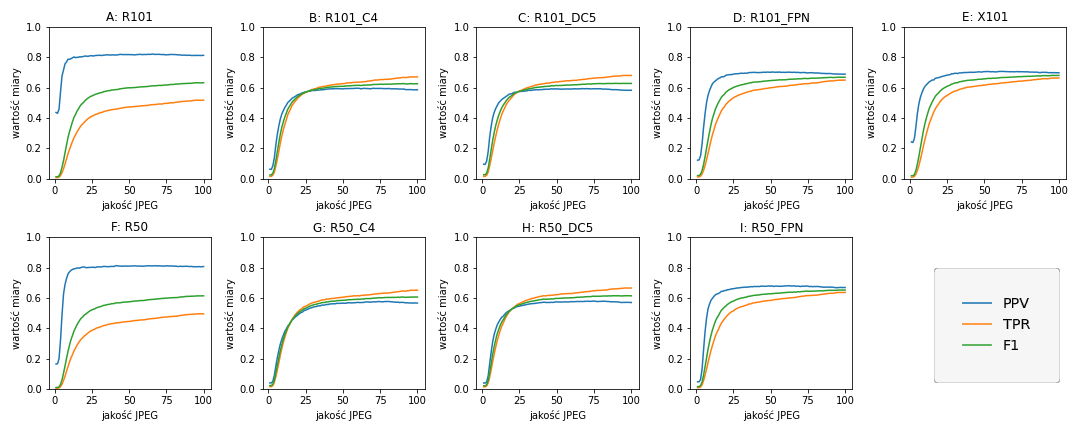
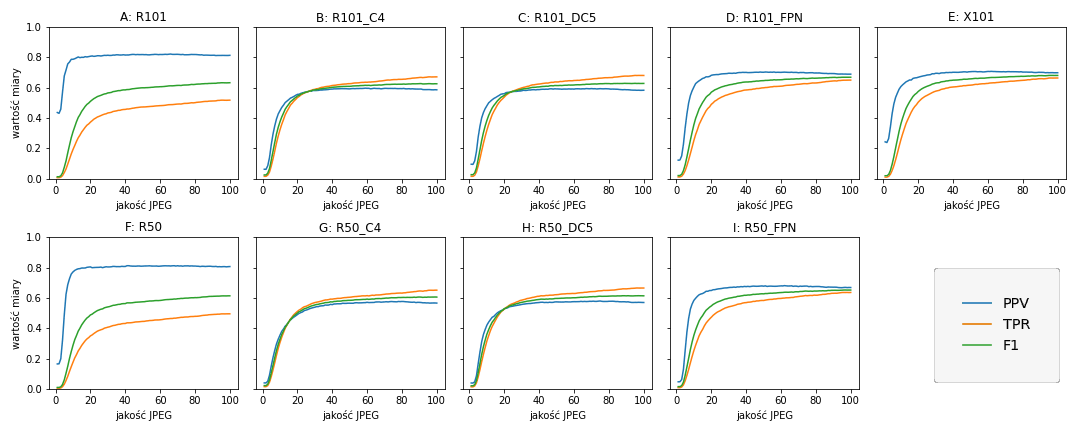
Detekcja_obiektow/09-metrics-APx_Q -- AP plots by Q, i18n and slight look change.

diff --git a/evaldets/postprocess.py b/evaldets/postprocess.py
@@ -181,7 +181,7 @@ class Summary:
         xlim=None,
         **kwargs,
     ):
-        """Plot"""
+        """Plot counts of TP, FP and EX againts Tc."""
         if axes is not None:
             axes = iter(axes.ravel())
 
@@ -281,12 +281,21 @@ class GrandSummary:
             )
             subplot_ord += 1
 
-    def plot_ap_summaries(self, axes=None, by_size=False, order=None, **kwargs):
+    def plot_ap_summaries(
+        self, axes=None, by_size=False, order=None, i18n=None, **kwargs
+    ):
         if axes is not None:
             axes = iter(axes.ravel())
+
+        if by_size and "color" not in kwargs:
+            kwargs["color"] = ["#777777", "#444444", "#000000"]
+
+        if not by_size and "color" not in kwargs:
+            kwargs["color"] = ["#000000", "#005500", "#00aa00"]
+
         subplot_ord = ord("A")
         models = {df["model"][0]: df for df in self.ap_summaries()}
-        columns = ["APl", "APm", "APs"] if by_size else ["AP50", "AP75", "AP"]
+        columns = ["APl", "APm", "APs"] if by_size else ["AP", "AP75", "AP50"]
         for model in order if order else models.keys():
             df = models[model]
             if axes is not None:
@@ -296,13 +305,20 @@ class GrandSummary:
                 x="quality",
                 y=columns,
                 ylim=(0, 1),
-                ylabel="value",
+                ylabel=T_(i18n, "value"),
+                xlabel=T_(i18n, "quality"),
                 title=f"{chr(subplot_ord)}: {model}",
                 **kwargs,
             )
             subplot_ord += 1
+            if by_size:
+                # https://stackoverflow.com/questions/62470743/change-line-width-of-specific-line-in-line-plot-pandas-matplotlib
+                w = 3
+                for line in ax.get_lines():
+                    line.set_linewidth(w)
+                    w -= 1
 
-    def plot_ap_derivatives(self, axes=None, order=None, **kwargs):
+    def plot_ap_derivatives(self, axes=None, order=None, i18n=None, **kwargs):
         if axes is not None:
             axes = iter(axes.ravel())
         subplot_ord = ord("A")
@@ -313,8 +329,8 @@ class GrandSummary:
                 ax = next(axes)
                 kwargs["ax"] = ax
             df.AP.rename("d(AP)/dQ").diff().rolling(5).mean().plot(
-                xlabel="quality",
-                ylabel="d(AP)/dQ ",
+                xlabel=T_(i18n, "quality"),
+                ylabel=T_(i18n, "d(AP)/dQ"),
                 legend=False,
                 title=f"{chr(subplot_ord)}: {model}",
                 **kwargs,
